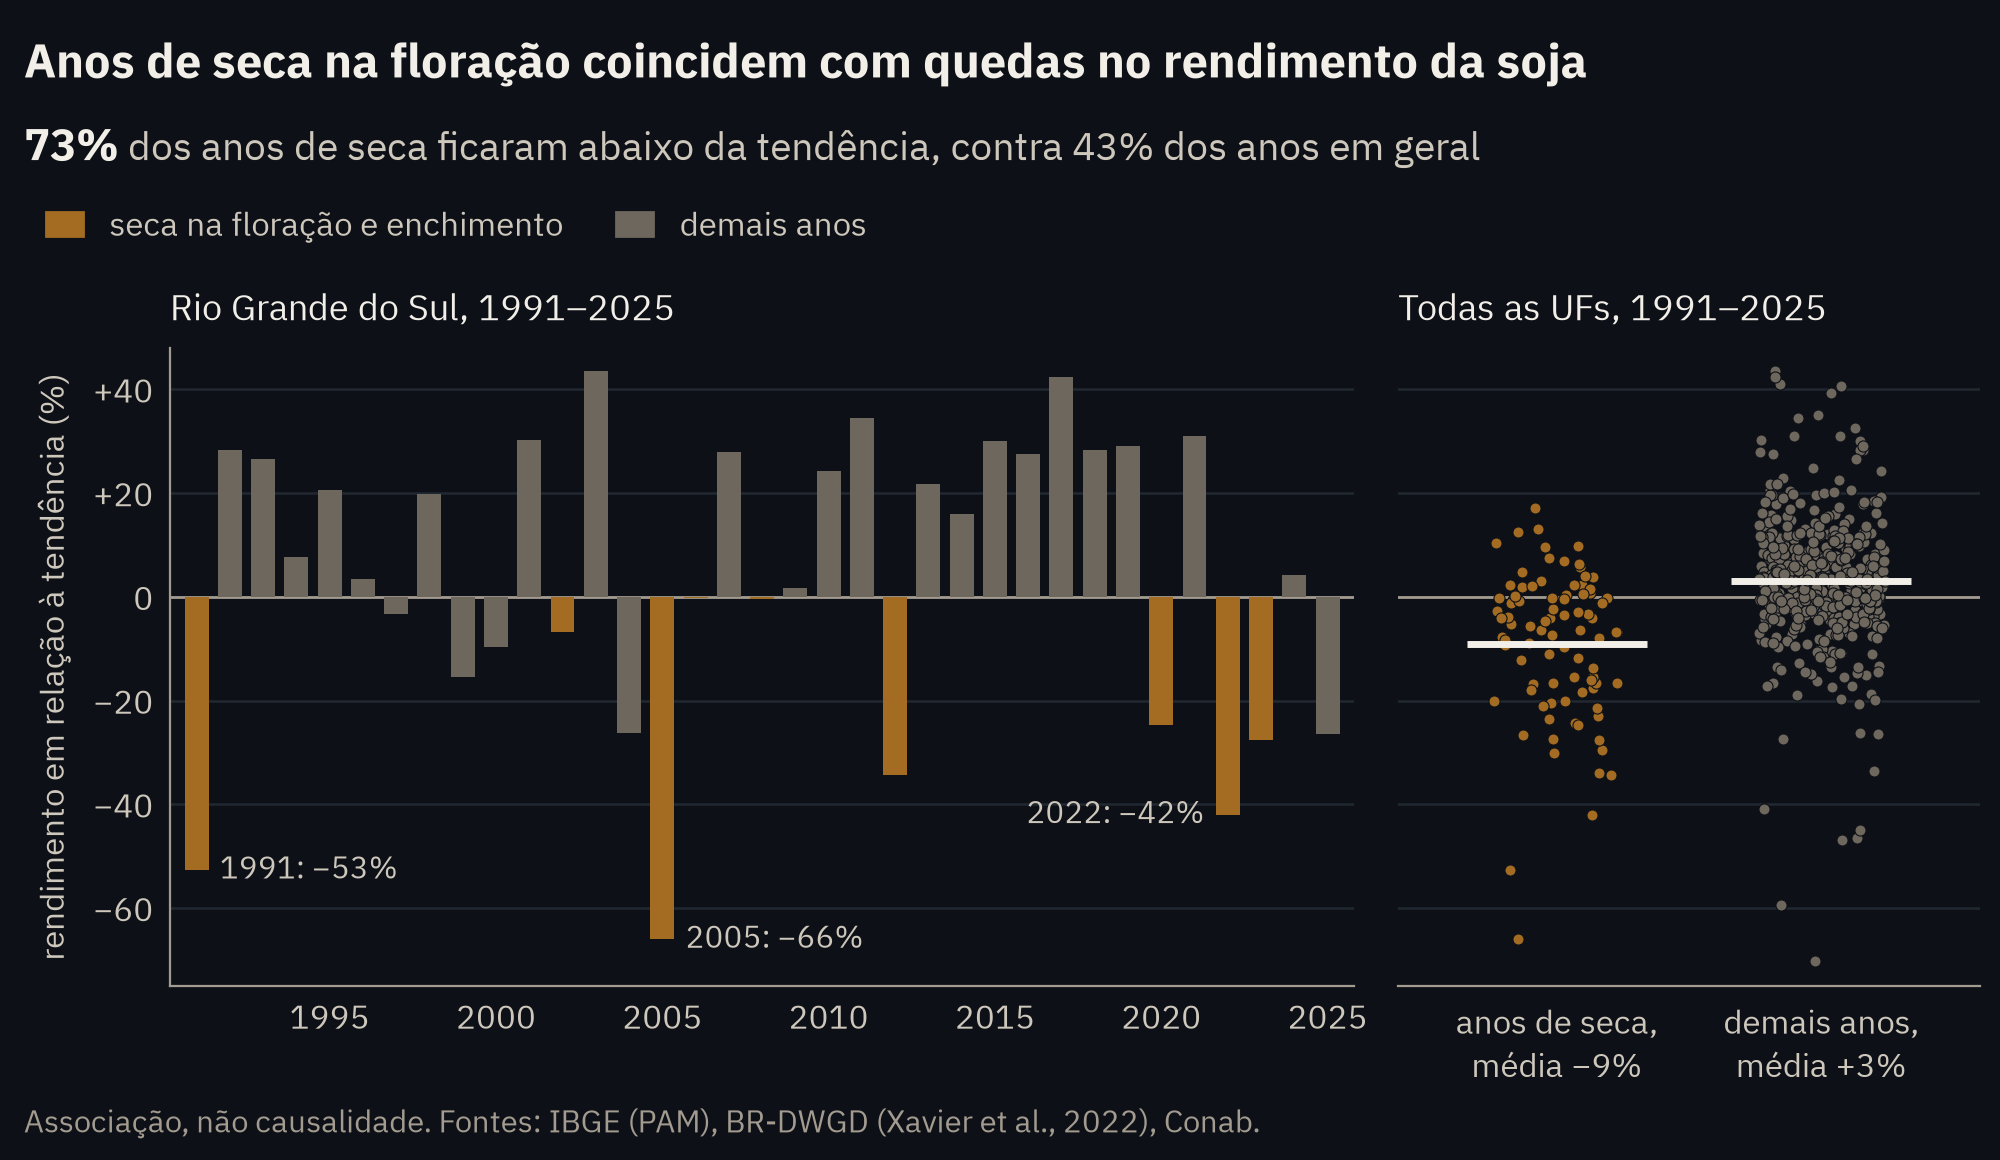
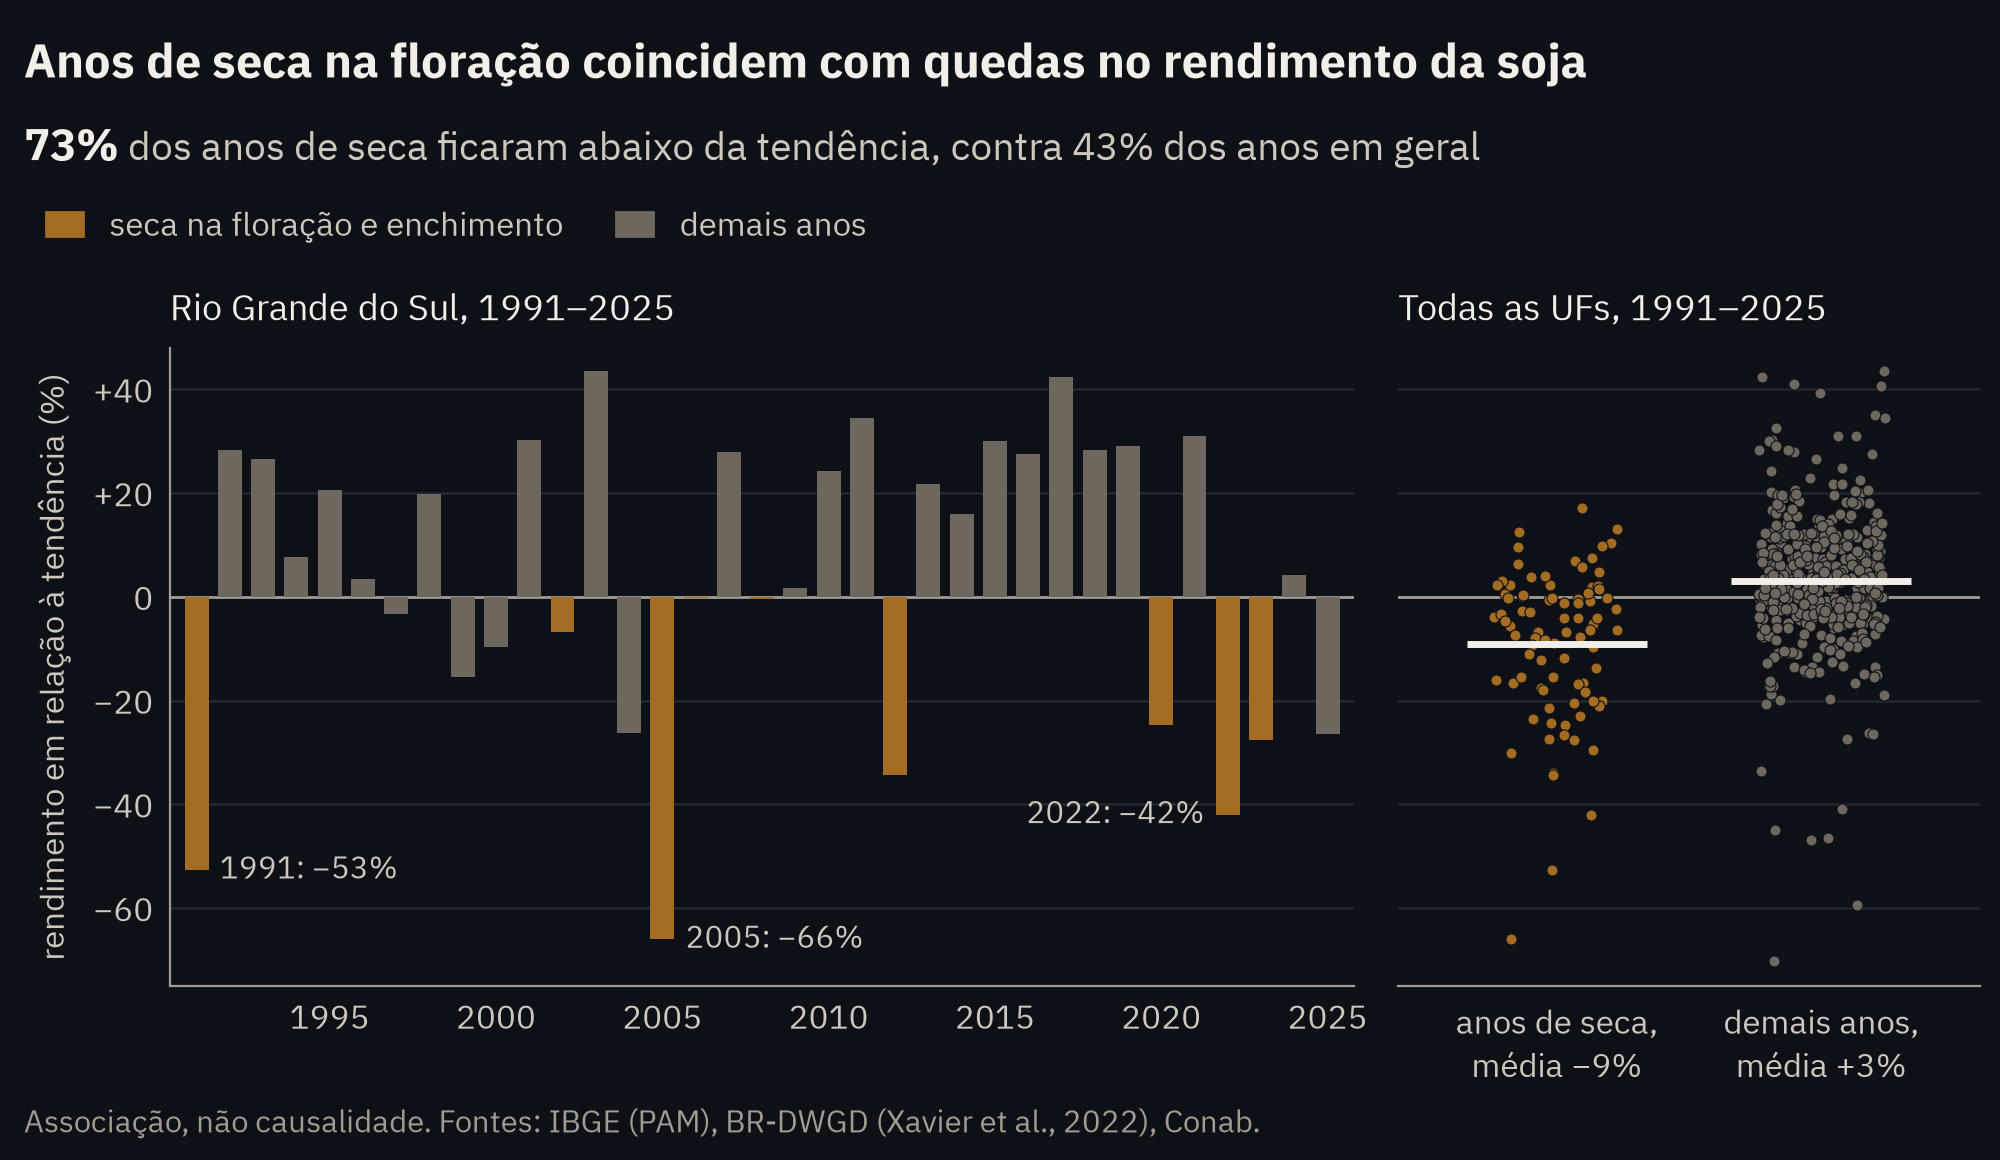
fix(docs): make the README chart reproducible and read the main finding view
The scatter query had no ORDER BY, so the jitter of each dot moved whenever
the association table was rebuilt. The query now has a fixed order, and the
means and the subtitle numbers come from serve_analysis_headline, the same
model that feeds the website. The images were regenerated with identical
numbers.

Changed region(s): [[0.868, 0.3103, 0.961, 0.6207], [0.744, 0.4655, 0.806, 0.6828], [0.899, 0.7138, 0.93, 0.7448]]

diff --git a/scripts/make_readme_chart.py b/scripts/make_readme_chart.py
@@ -5,14 +5,15 @@ Grande do Sul by default) by harvest year, with the water-deficit years (z <= -1
 critical window, flowering and grain filling) in the project's dry brown and the other years
 in its warm neutral grey.
 Right panel: the same anomaly for every state-year with a normal and a trend, split by the
-deficit class, with the mean of each group. The subtitle numbers (share of deficit years
-below the trend, share of all years below it) are computed from the same rows.
+deficit class, with the mean of each group. The means and the subtitle numbers (share of
+deficit years below the trend, share of all years below it) come from serve.serve_analysis_headline,
+the model that also feeds the website, so the README and the site show the same numbers.
 
 Colours, font and style come from the visual identity (src/agro_observatory/viz/identity.py,
-validated by scripts/check_visual_identity.py). Reads marts.agg_climate_yield_association in
-the Postgres configured by .env and writes two PNGs with solid backgrounds (light: #ffffff,
-dark: #0d1117, the GitHub page colours), so the image also reads well outside GitHub. The
-README picks one per theme with <picture>.
+validated by scripts/check_visual_identity.py). Reads marts.agg_climate_yield_association and
+serve.serve_analysis_headline in the Postgres configured by .env and writes two PNGs with solid
+backgrounds (light: #ffffff, dark: #0d1117, the GitHub page colours), so the image also reads
+well outside GitHub. The README picks one per theme with <picture>.
 Sized to stay legible when shown about 800 px wide. Usage:
     uv run python scripts/make_readme_chart.py [--state RS] [--out docs/img]
 """
@@ -50,23 +51,42 @@ where crop = 'soybean' and territory_level = 'state' and territory_name = %s
 order by harvest_year
 """
 
+# Fixed order: the jitter of each dot depends on its position in the result, so an unordered
+# query would move the dots whenever the table is rebuilt.
 STACKED_SQL = """
 select harvest_year, yield_anomaly_pct, is_water_deficit
 from marts.agg_climate_yield_association
 where crop = 'soybean' and territory_level = 'state'
   and is_normal_available and is_trend_available
+order by territory_id, harvest_year
 """
 
 
-def fetch(state: str) -> tuple[list[tuple], list[tuple]]:
+HEADLINE_SQL = """
+select state_years, mean_anomaly_water_deficit_years, mean_anomaly_other_years,
+    below_trend_share_water_deficit_years, below_trend_share_all_years
+from serve.serve_analysis_headline
+"""
+
+
+def fetch(state: str) -> tuple[list[tuple], list[tuple], dict[str, float]]:
     load_dotenv(find_dotenv(usecwd=True))
     with psycopg.connect(conninfo_from_env()) as conn, conn.cursor() as cur:
         cur.execute("set statement_timeout = '60s'")
         series = cur.execute(SERIES_SQL, (state,)).fetchall()
         stacked = cur.execute(STACKED_SQL).fetchall()
+        row = cur.execute(HEADLINE_SQL).fetchone()
     if not series:
         raise SystemExit(f"no soybean series for state {state}")
-    return series, stacked
+    if row is None or row[0] != len(stacked):
+        raise SystemExit("serve.serve_analysis_headline is missing or out of date: run dbt build")
+    headline = {
+        "mean_def": 100 * float(row[1]),
+        "mean_other": 100 * float(row[2]),
+        "hit": 100 * float(row[3]),
+        "base": 100 * float(row[4]),
+    }
+    return series, stacked, headline
 
 
 def signed(value: float, suffix: str = "") -> str:
@@ -84,7 +104,7 @@ def text_runs(fig, x: float, y: float, runs: list[tuple[str, dict]]) -> None:
         x = fig.transFigure.inverted().transform(t.get_window_extent(renderer).p1)[0]
 
 
-def render(state: str, series, stacked, theme: str, out: Path) -> None:
+def render(state: str, series, stacked, headline: dict[str, float], theme: str, out: Path) -> None:
     # Only the drought years carry colour (dry); the other years are the neutral, in both panels.
     c = vi.apply_style(theme)
     size = vi.TYPE_SCALE
@@ -95,9 +115,8 @@ def render(state: str, series, stacked, theme: str, out: Path) -> None:
     all_years = np.array([r[0] for r in stacked])
     all_anom = 100 * np.array([float(r[1]) for r in stacked])
     all_def = np.array([bool(r[2]) for r in stacked])
-    mean_def, mean_other = all_anom[all_def].mean(), all_anom[~all_def].mean()
-    hit = 100 * (all_anom[all_def] < 0).mean()
-    base = 100 * (all_anom < 0).mean()
+    mean_def, mean_other = headline["mean_def"], headline["mean_other"]
+    hit, base = headline["hit"], headline["base"]
 
     fig, (ax, ax2) = plt.subplots(
         1,
@@ -153,7 +172,10 @@ def render(state: str, series, stacked, theme: str, out: Path) -> None:
     rng = np.random.default_rng(42)
     # Opaque dots keep the validated colours exact; a thin ring in the background colour
     # separates overlapping dots.
-    for x, mask, color in ((0, all_def, c["dry"]), (1, ~all_def, c["neutral"])):
+    for x, mask, color, mean in (
+        (0, all_def, c["dry"], mean_def),
+        (1, ~all_def, c["neutral"], mean_other),
+    ):
         jitter = rng.uniform(-0.24, 0.24, mask.sum())
         ax2.scatter(
             x + jitter,
@@ -164,7 +186,6 @@ def render(state: str, series, stacked, theme: str, out: Path) -> None:
             linewidths=0.4,
             zorder=2,
         )
-        mean = all_anom[mask].mean()
         ax2.hlines(mean, x - 0.34, x + 0.34, color=c["text"], linewidth=2.5, zorder=3)
     ax2.set_xlim(-0.6, 1.6)
     ax2.set_xticks(
@@ -236,10 +257,10 @@ def main() -> None:
     parser.add_argument("--state", default="RS", help="state abbreviation (default: RS)")
     parser.add_argument("--out", default="docs/img", help="output folder (default: docs/img)")
     args = parser.parse_args()
-    series, stacked = fetch(args.state)
+    series, stacked, headline = fetch(args.state)
     for theme in vi.THEMES:
         out = Path(args.out) / f"soybean_yield_anomaly_{args.state.lower()}_{theme}.png"
-        render(args.state, series, stacked, theme, out)
+        render(args.state, series, stacked, headline, theme, out)
 
 
 if __name__ == "__main__":
